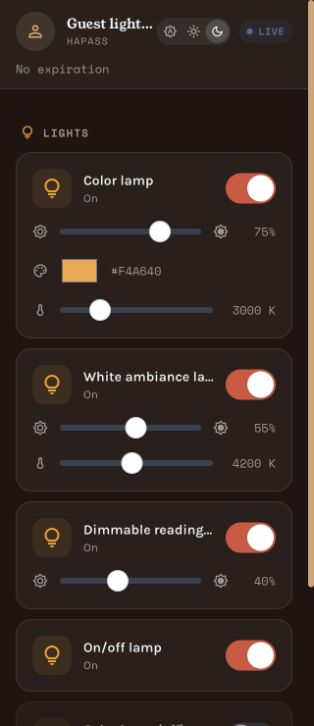
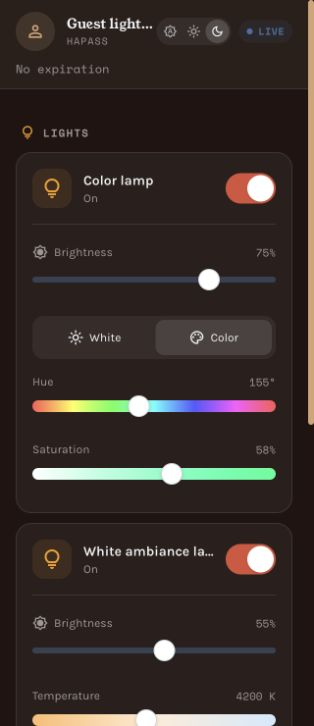
Refresh guest lighting visual evidence for inline color sliders

diff --git a/preview.py b/preview.py
@@ -3,6 +3,7 @@
 No Home Assistant client, credentials, or household data are loaded.
 """
 import asyncio
+import colorsys
 import copy
 import json
 from pathlib import Path
@@ -21,8 +22,8 @@ for key in queues:
     app.mount(f"/{key}/static", StaticFiles(directory=ROOT / key / "static"))
 
 FIXTURE = {
-    "light.color_lamp": {"state": "on", "attributes": {"friendly_name": "Color lamp", "supported_color_modes": ["rgb", "color_temp"], "brightness": 191, "rgb_color": [244, 166, 64], "color_temp_kelvin": 3000, "min_color_temp_kelvin": 2000, "max_color_temp_kelvin": 6500}},
-    "light.white_lamp": {"state": "on", "attributes": {"friendly_name": "White ambiance lamp", "supported_color_modes": ["color_temp"], "brightness": 140, "color_temp_kelvin": 4200, "min_color_temp_kelvin": 2200, "max_color_temp_kelvin": 6500}},
+    "light.color_lamp": {"state": "on", "attributes": {"friendly_name": "Color lamp", "supported_color_modes": ["rgb", "color_temp"], "color_mode": "rgb", "brightness": 191, "rgb_color": [107, 255, 193], "hs_color": [155, 58], "color_temp_kelvin": None, "min_color_temp_kelvin": 2000, "max_color_temp_kelvin": 6500}},
+    "light.white_lamp": {"state": "on", "attributes": {"friendly_name": "White ambiance lamp", "supported_color_modes": ["color_temp"], "color_mode": "color_temp", "brightness": 140, "color_temp_kelvin": 4200, "min_color_temp_kelvin": 2200, "max_color_temp_kelvin": 6500}},
     "light.dimmable_lamp": {"state": "on", "attributes": {"friendly_name": "Dimmable reading lamp with a deliberately long name", "supported_color_modes": ["brightness"], "brightness": 102}},
     "light.simple_lamp": {"state": "on", "attributes": {"friendly_name": "On/off lamp", "supported_color_modes": ["onoff"]}},
     "light.off_lamp": {"state": "off", "attributes": {"friendly_name": "Color lamp (off)", "supported_color_modes": ["rgb"], "brightness": 200, "rgb_color": [64, 128, 255]}},
@@ -80,6 +81,11 @@ async def command(request: Request, variant: str):
     current["state"] = "off" if payload["service"].endswith("turn_off") else "on"
     data = payload.get("data", {})
     current["attributes"].update(data)
+    if "rgb_color" in data:
+        hue, saturation, _ = colorsys.rgb_to_hsv(*(channel / 255 for channel in data["rgb_color"]))
+        current["attributes"].update(color_mode="rgb", hs_color=[hue * 360, saturation * 100], color_temp_kelvin=None, color_temp=None)
+    elif "color_temp_kelvin" in data:
+        current["attributes"].update(color_mode="color_temp", hs_color=None, rgb_color=None)
     if "brightness_pct" in data:
         current["attributes"]["brightness"] = round(data["brightness_pct"] * 255 / 100)
     for queue in queues[variant]:

diff --git a/README.md b/README.md
@@ -1,41 +1,47 @@
 # HAPass guest lighting controls: visual evidence
 
-Browser captures for [upstream PR #25](https://github.com/Rohithkadaveru/ha-pass/pull/25), recorded on 2026-09-12.
+Browser captures for [upstream PR #25](https://github.com/Rohithkadaveru/ha-pass/pull/25), recorded on 2026-09-13.
 
 - Before: `ed90194b54863d661eea23bddd52387e89f23b08` (upstream main).
-- After: `567040fcd8accace9c8526199e5645d014372d76` (feature branch).
+- After: `d238246e90e29ff84fb4f74717eb30ab9aa29b26` (feature branch).
 - Real repository Jinja templates and static JavaScript, with CSS compiled using Tailwind 3.4.16 as pinned in the Dockerfile.
-- Synthetic device states, command receiver and SSE stream supplied by `preview.py`. No live Home Assistant, home data or real access tokens are used.
-- Captured with the Codex in-app browser. Viewports: 390 × 844 and 1280 × 900 for before/after; 320 × 740 for the narrow dark-theme check. Images are unedited browser captures; capture dimensions can exclude the scrollbar.
+- Synthetic device states, command receiver and SSE stream supplied by `preview.py`. No Home Assistant client, household data or access tokens are used.
+- Captured with the Codex in-app browser at 390 × 844 and 1280 × 900 for before/after, and 320 × 740 for the narrow dark-theme check. Images are unedited browser captures; capture dimensions can exclude the scrollbar.
 
 ## Before / after
 
 | 390 px viewport — before | 390 px viewport — after |
 | --- | --- |
-| ![Before: brightness controls](screenshots/before-mobile.jpg) | ![After: supported brightness, color and Kelvin controls](screenshots/after-mobile.jpg) |
+| ![Before: brightness controls](screenshots/before-mobile.jpg) | ![After: brightness, hue and saturation](screenshots/after-mobile.jpg) |
 
 | 1280 px viewport — before | 1280 px viewport — after |
 | --- | --- |
 | ![Desktop before](screenshots/before-desktop.jpg) | ![Desktop after](screenshots/after-desktop.jpg) |
 
-![320 px viewport, dark theme](screenshots/after-320-dark.jpg)
+| 320 px, dark theme | White controls, unreported temperature |
+| --- | --- |
+| ![Narrow dark theme](screenshots/after-320-dark.jpg) | ![White controls](screenshots/after-white-mobile.jpg) |
 
-## Results
+## Behavior and results
 
-- Inspected card padding, row spacing, text truncation and control alignment at 320, 390 and 1280 px. No overlapping controls or horizontal overflow was observed. At 320 px, all six active control rows had matching 248 px layout and scroll widths.
-- Checked lights supporting RGB plus temperature, temperature only, brightness only, on/off only, off and unavailable states. Unsupported controls are absent in the feature version.
-- Browser interaction sent `brightness: 194`, `color_temp_kelvin: 3100`, and `rgb_color: [51, 102, 204]` through the existing `light.turn_on` request shape to the synthetic receiver.
-- An incoming SSE update did not move the focused Kelvin slider; after focus left the control, its value and label reconciled to the incoming 4222 K. Turning a light off removed its controls.
-- This browser pass exposed a native range-input issue missed by the JavaScript tests: `step="100"` made a displayed 2703 K become a 2700 K input value and prevented reaching a 6536 K bound. The feature branch now uses integer-Kelvin steps. A fresh browser load confirmed 2703 K remained exact and keyboard Home/End reached 2000 K / 6536 K.
-- No browser console warnings or errors were recorded during the final check. Fonts loaded.
-- Final feature commit: 135 Python tests passed (32 existing httpx deprecation warnings); `node tests/test_light_controls.js` and `git diff --check` passed.
+- Hue and saturation are always visible in the Color panel. Brightness remains separate. Labels and the saturation gradient preview changes on input; commands are sent on the native range change event, without an Apply button or browser color-picker dialog.
+- Lights supporting both color and temperature get White/Color buttons. These select the controls to edit; selecting a panel alone does not send a lamp command. The initial panel follows the reported color mode, and an explicit panel choice stays selected for the page session.
+- Inspected padding, spacing, truncation and control alignment at 320, 390 and 1280 px in light and dark themes. No overlapping controls or horizontal overflow was observed. At 320 px, the document layout and scroll widths both measured 314 px (excluding the scrollbar); all three light-control groups had matching 248 px layout and scroll widths.
+- Checked the UI for combined RGB/temperature, temperature-only, brightness-only, on/off-only, off and unavailable lights. Unsupported controls are absent.
+- Keyboard End on Hue reached 359 degrees and sent `rgb_color: [255, 107, 110]` at 58% saturation. Home on Saturation sent `rgb_color: [255, 255, 255]`. Color commands omitted brightness and kept the existing `light.turn_on` request shape.
+- While Saturation held focus at 0% with Hue at 359 degrees, an injected SSE event reporting 210 degrees / 80% did not move either control. Moving focus away reconciled both controls to that state.
+- White controls showed `Not reported` in the visible label and `aria-valuetext` when the fixture did not report a current temperature. The slider still has a starting position; it is not presented as a measured value. Home/End reached 2000 K / 6500 K and the receiver recorded those exact requests. A separate brightness change recorded `brightness: 194`.
+- No browser console warnings or errors were recorded during the after-version checks. Fonts and icons rendered.
+- Feature commit validation: 135 Python tests passed (32 existing httpx cookie deprecation warnings); `node tests/test_light_controls.js` and `git diff --check` passed. JavaScript checks cover capability filtering, HS/RGB/RGBW/RGBWW/XY state conversion, independent brightness, zero saturation, invalid commands, Kelvin and legacy mired bounds, escaping, panel selection, focused controls and deferred off-state reconciliation.
 
-These checks establish rendering and browser-to-fixture behavior. Physical phones, native mobile color-picker dialogs, PWA installation, and live Home Assistant/light operation remain unverified.
+These checks establish rendering and browser-to-fixture behavior. Physical-phone touch behavior, PWA installation and live Home Assistant/light operation were not exercised for this revision. No saved palette or recent-colors feature is included.
 
 ## Reproduce the preview
 
 Place exact checkouts in `before/` and `after/` beside `preview.py`, using the commits above. Build `static/dist.css` in each checkout with the repository's pinned Tailwind 3.4.16 and `tailwind.config.js`, and run `generate_icons.py` with Python 3.12. Use the dependencies in the repository's `requirements.txt`.
 
-Run `python preview.py` and open `http://127.0.0.1:8765/g/before` and `http://127.0.0.1:8765/g/after`. The fixture binds only to loopback. `/preview/reset` resets only its in-memory synthetic states; `/preview/state/{variant}/{entity}` can inject a synthetic SSE update. Commands are recorded locally in `commands.jsonl` and never forwarded to Home Assistant.
+Run `python preview.py` and open `http://127.0.0.1:8765/g/before` and `http://127.0.0.1:8765/g/after`. The fixture binds only to loopback. `/preview/reset` resets only its in-memory synthetic states; `/preview/state/{variant}/{entity}` injects a synthetic SSE update. Commands are recorded locally in `commands.jsonl` and never forwarded to Home Assistant.
+
+For the White-panel screenshot, select White on the color lamp. The fixture deliberately reports no current Kelvin value while that lamp is in RGB mode.
 
 This asset branch is separate from the product PR so screenshots and the preview harness do not enter the application diff.
